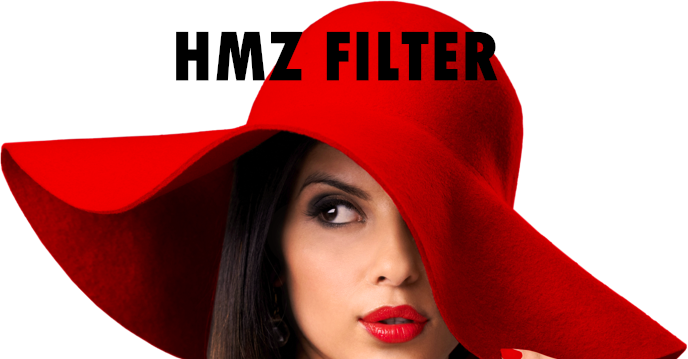
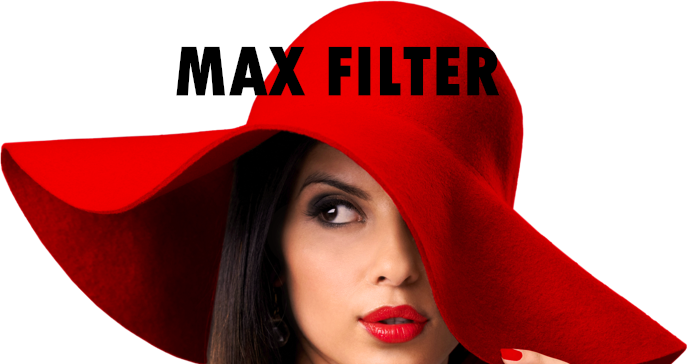
First version 2.1.1

diff --git a/filter.py b/filter.py
@@ -1,9 +1,14 @@
 import os
 import sys
 from GUI import *
-from validate_email import validate_email
 from tkinter.filedialog import askopenfilename
 from tkinter.messagebox import *
+try:
+    from validate_email import validate_email
+except:
+    os.system('pip install validate_email')
+    os.execl(sys.executable, 'filter.py', *sys.argv)
+
 
 print('-------------------------------Starting the filtering of the mailing data--------------------------------------')
 print()
@@ -157,7 +162,7 @@ if __name__ == '__main__':
         file_as_arg = sys.argv[1]
         execute_filter_action(file_as_arg)
     except:
-        root = Root('HMZ Filter')
+        root = Root('Max Filter By HMZ')
         root.center(400, 650)
         image = ImageTk.PhotoImage(Image.open('pictures/title.png'))
         title = BLImagedTitle(root, image, 'Max Filter')
